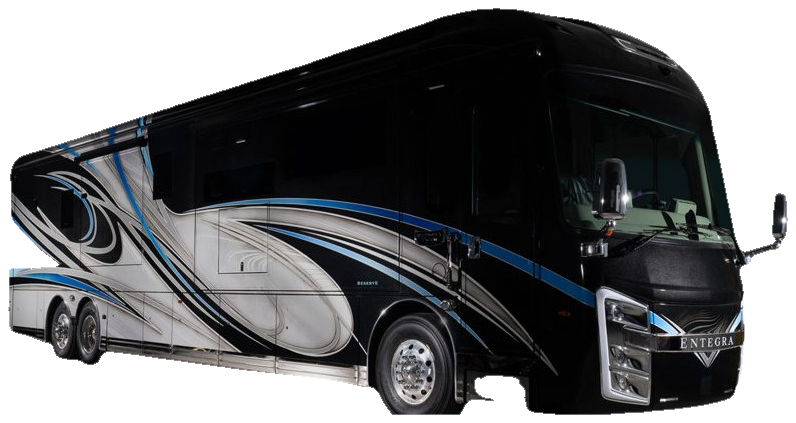
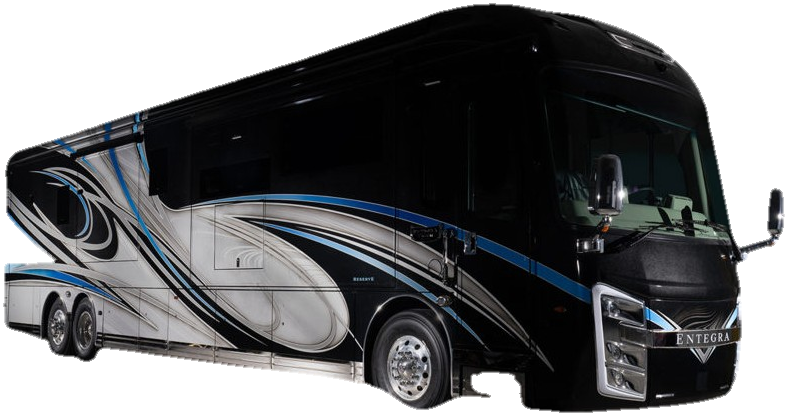
Fade the hero spotlight into the page and follow the real bumper.
The beam and floor glow were clipping into a gray rectangle, and the roof
glint was a fog over the upper coach. The cutout edge now fades to clear,
the floor light is a soft ellipse, and the glint is a thin streak on the roof.

diff --git a/src/components/shell/HomeScreen.tsx b/src/components/shell/HomeScreen.tsx
@@ -95,36 +95,41 @@ export function HomeScreen({
   const hero = (
     <>
       <div className="showroom-hero-beam" aria-hidden />
-      <div className="showroom-hero-wash" aria-hidden />
       <SpotlightPhoto className="showroom-coach" alt={SHOWROOM_SPOTLIGHT.alt} />
       <svg
         className="showroom-hero-glint"
-        viewBox="0 0 796 423"
+        viewBox="0 0 788 416"
         preserveAspectRatio="xMidYMax meet"
         aria-hidden
       >
         <defs>
-          <filter
+          <linearGradient
             id="showroom-roof-glint"
-            x="-6%"
-            y="-10%"
-            width="112%"
-            height="124%"
-            colorInterpolationFilters="sRGB"
+            gradientUnits="userSpaceOnUse"
+            x1="63"
+            y1="80"
+            x2="693"
+            y2="40"
           >
-            <feMorphology in="SourceAlpha" operator="erode" radius="4" result="inset" />
-            <feMorphology in="SourceAlpha" operator="erode" radius="20" result="deep" />
-            <feComposite in="inset" in2="deep" operator="out" result="band" />
-            <feGaussianBlur in="band" stdDeviation="2.4" result="soft" />
-            <feFlood floodColor="#ffffff" floodOpacity="0.46" result="wash" />
-            <feComposite in="wash" in2="soft" operator="in" />
+            <stop offset="0%" stopColor="#ffffff" stopOpacity="0" />
+            <stop offset="32%" stopColor="#ffffff" stopOpacity="0.18" />
+            <stop offset="58%" stopColor="#ffffff" stopOpacity="0.72" />
+            <stop offset="68%" stopColor="#ffffff" stopOpacity="1" />
+            <stop offset="82%" stopColor="#ffffff" stopOpacity="0.22" />
+            <stop offset="100%" stopColor="#ffffff" stopOpacity="0" />
+          </linearGradient>
+          <filter id="showroom-roof-glint-soft" x="-3%" y="-40%" width="106%" height="180%">
+            <feGaussianBlur stdDeviation="0.8" />
           </filter>
         </defs>
-        <image
-          href={SHOWROOM_SPOTLIGHT.image}
-          width="796"
-          height="423"
-          filter="url(#showroom-roof-glint)"
+        <path
+          d="M 63 139.5 L 73 138 L 83 135 L 93 131.7 L 103 128.3 L 113 124.7 L 123 121.3 L 133 118 L 143 114.7 L 153 111.3 L 163 108 L 173 105 L 183 101.7 L 193 98.3 L 203 95 L 213 92 L 223 89 L 233 85.7 L 243 82.3 L 253 79 L 263 76 L 273 73 L 283 70 L 293 67 L 303 63.7 L 313 60.3 L 323 56.7 L 333 53.3 L 343 49.7 L 353 46.3 L 363 43 L 373 39.7 L 383 36 L 393 32.3 L 403 29 L 413 25.7 L 423 22 L 433 18.3 L 443 15.3 L 453 13 L 463 11 L 473 9.7 L 483 8.7 L 493 8.7 L 503 9 L 513 10 L 523 11.3 L 533 13 L 543 15 L 553 16.7 L 563 18 L 573 19.3 L 583 21.3 L 593 24 L 603 27 L 613 30.3 L 623 34 L 633 38.3 L 643 43 L 653 48.7 L 663 55.7 L 673 64 L 683 74 L 693 79"
+          fill="none"
+          stroke="url(#showroom-roof-glint)"
+          strokeWidth="7"
+          strokeLinecap="round"
+          strokeLinejoin="round"
+          filter="url(#showroom-roof-glint-soft)"
         />
       </svg>
       <div className="showroom-hero-pool" aria-hidden />

diff --git a/src/styles.css b/src/styles.css
@@ -2695,42 +2695,24 @@ button.showroom-placard {
   display: block;
   width: calc(100% - 2.5rem);
 }
-/* Soft cone behind the cutout, plus a faint screen wash on the roof.
-   Both stay inside the hero so they cannot cover the logo or the placard. */
+/* Soft cone behind the cutout. Inset past the blur so overflow never
+   clips a bright edge into a rectangle above the roof. */
 .showroom-hero-beam {
   position: absolute;
   z-index: 1;
-  left: 6%;
-  right: 6%;
-  top: 0;
-  height: 74%;
-  pointer-events: none;
-  background: linear-gradient(
-    180deg,
-    rgba(236, 243, 255, 0.78) 0%,
-    rgba(206, 222, 255, 0.32) 38%,
-    rgba(206, 222, 255, 0.08) 68%,
-    rgba(206, 222, 255, 0) 100%
-  );
-  clip-path: polygon(32% 0%, 68% 0%, 100% 100%, 0% 100%);
-  filter: blur(10px);
-}
-.showroom-hero-wash {
-  position: absolute;
-  z-index: 3;
-  left: 12%;
-  right: 12%;
-  top: 0;
+  left: 18%;
+  right: 18%;
+  top: 1.15rem;
   height: 58%;
   pointer-events: none;
   background: linear-gradient(
     180deg,
-    rgba(255, 255, 255, 0.2) 0%,
-    rgba(214, 226, 255, 0.05) 55%,
-    rgba(214, 226, 255, 0) 100%
+    rgba(236, 243, 255, 0) 0%,
+    rgba(226, 236, 255, 0.5) 28%,
+    rgba(206, 222, 255, 0.16) 58%,
+    rgba(206, 222, 255, 0) 100%
   );
-  clip-path: polygon(28% 0%, 72% 0%, 92% 100%, 8% 100%);
-  mix-blend-mode: screen;
+  clip-path: polygon(34% 0%, 66% 0%, 100% 100%, 0% 100%);
   filter: blur(8px);
 }
 .showroom-coach {
@@ -2744,9 +2726,8 @@ button.showroom-placard {
   background: transparent;
   border: 0;
 }
-/* Soft specular on the roof panel. The SVG uses the same cutout and the
-   same contain / bottom alignment as .showroom-coach, then keeps only a
-   blurred band inset from the silhouette. The mask fades it below the roof. */
+/* Thin specular streak on the roof edge. Same box and bottom alignment as
+   the cutout, so the stroke stays on the roofline. */
 .showroom-hero-glint {
   position: absolute;
   z-index: 4;
@@ -2757,22 +2738,21 @@ button.showroom-placard {
   height: 11.5rem;
   pointer-events: none;
   mix-blend-mode: screen;
-  -webkit-mask-image: linear-gradient(to bottom, #000 0%, #000 36%, transparent 50%);
-  mask-image: linear-gradient(to bottom, #000 0%, #000 36%, transparent 50%);
+  opacity: 0.55;
 }
 .showroom-hero-pool {
   position: absolute;
   z-index: 1;
-  left: 10%;
-  right: 10%;
-  bottom: 0.15rem;
-  height: 2rem;
+  left: 0;
+  right: 0;
+  bottom: 0.35rem;
+  height: 2.6rem;
   pointer-events: none;
   background: radial-gradient(
-    ellipse 100% 58% at 50% 55%,
-    rgba(222, 232, 255, 0.42) 0%,
-    rgba(190, 210, 255, 0.16) 46%,
-    transparent 74%
+    ellipse 42% 36% at 50% 58%,
+    rgba(222, 232, 255, 0.4) 0%,
+    rgba(196, 214, 255, 0.14) 42%,
+    transparent 68%
   );
 }
 .showroom-card {

diff --git a/src/lib/home/homeCoach.test.ts b/src/lib/home/homeCoach.test.ts
@@ -305,7 +305,8 @@ test("spotlight is the fixed 2026 Entegra Cornerstone and arrivals stay newest-f
     coach,
     /pickShowroomStage|resolveHomeCoach|newestLotUnit|sameLotUnit|ShowroomStage|arrivalLabel/,
   );
-  assert.doesNotMatch(css, /showroom-coach-fallback|showroom-reflect|showroom-contact|showroom-hero picture/);
+  assert.doesNotMatch(css, /showroom-coach-fallback|showroom-reflect|showroom-contact|showroom-hero picture|showroom-hero-wash/);
+  assert.doesNotMatch(home, /showroom-hero-wash|feMorphology|feFlood/);
   assert.match(css, /\.showroom-hero-beam \{/);
   assert.match(css, /\.showroom-hero-pool \{/);
   assert.match(css, /\.showroom-hero-glint \{/);
